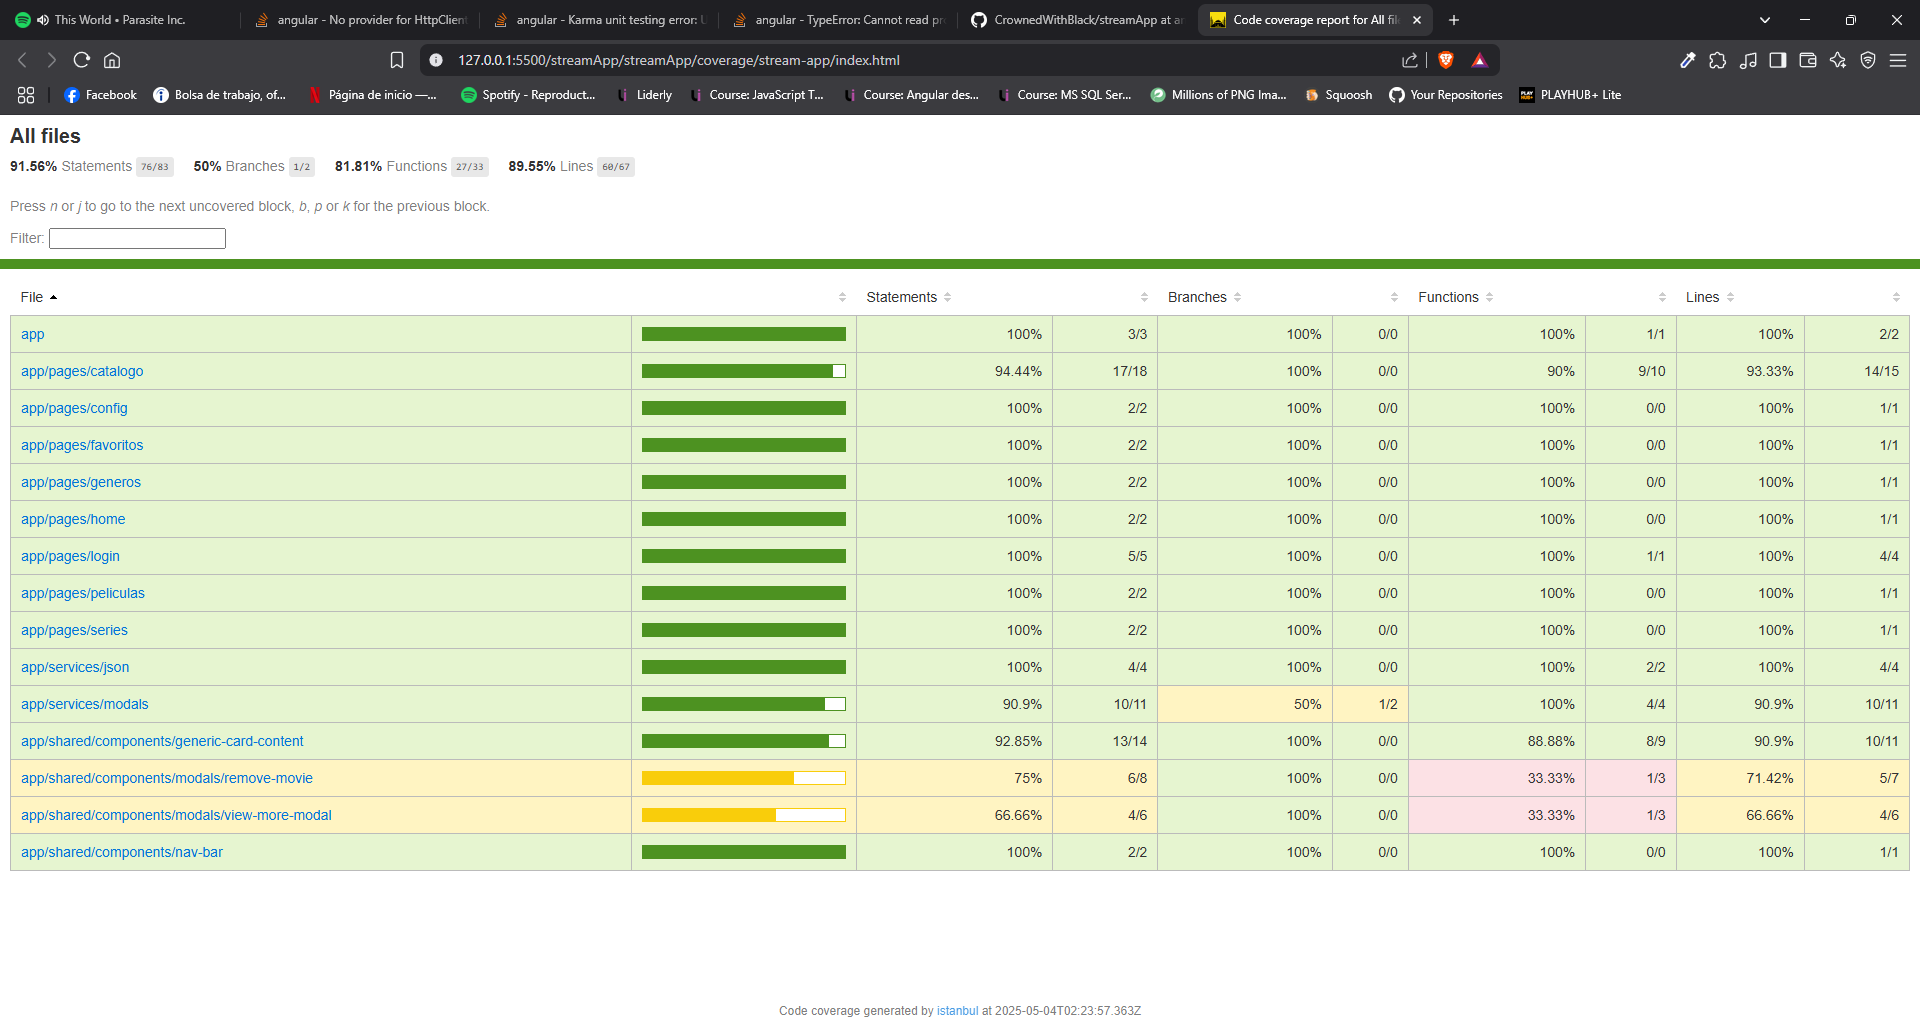
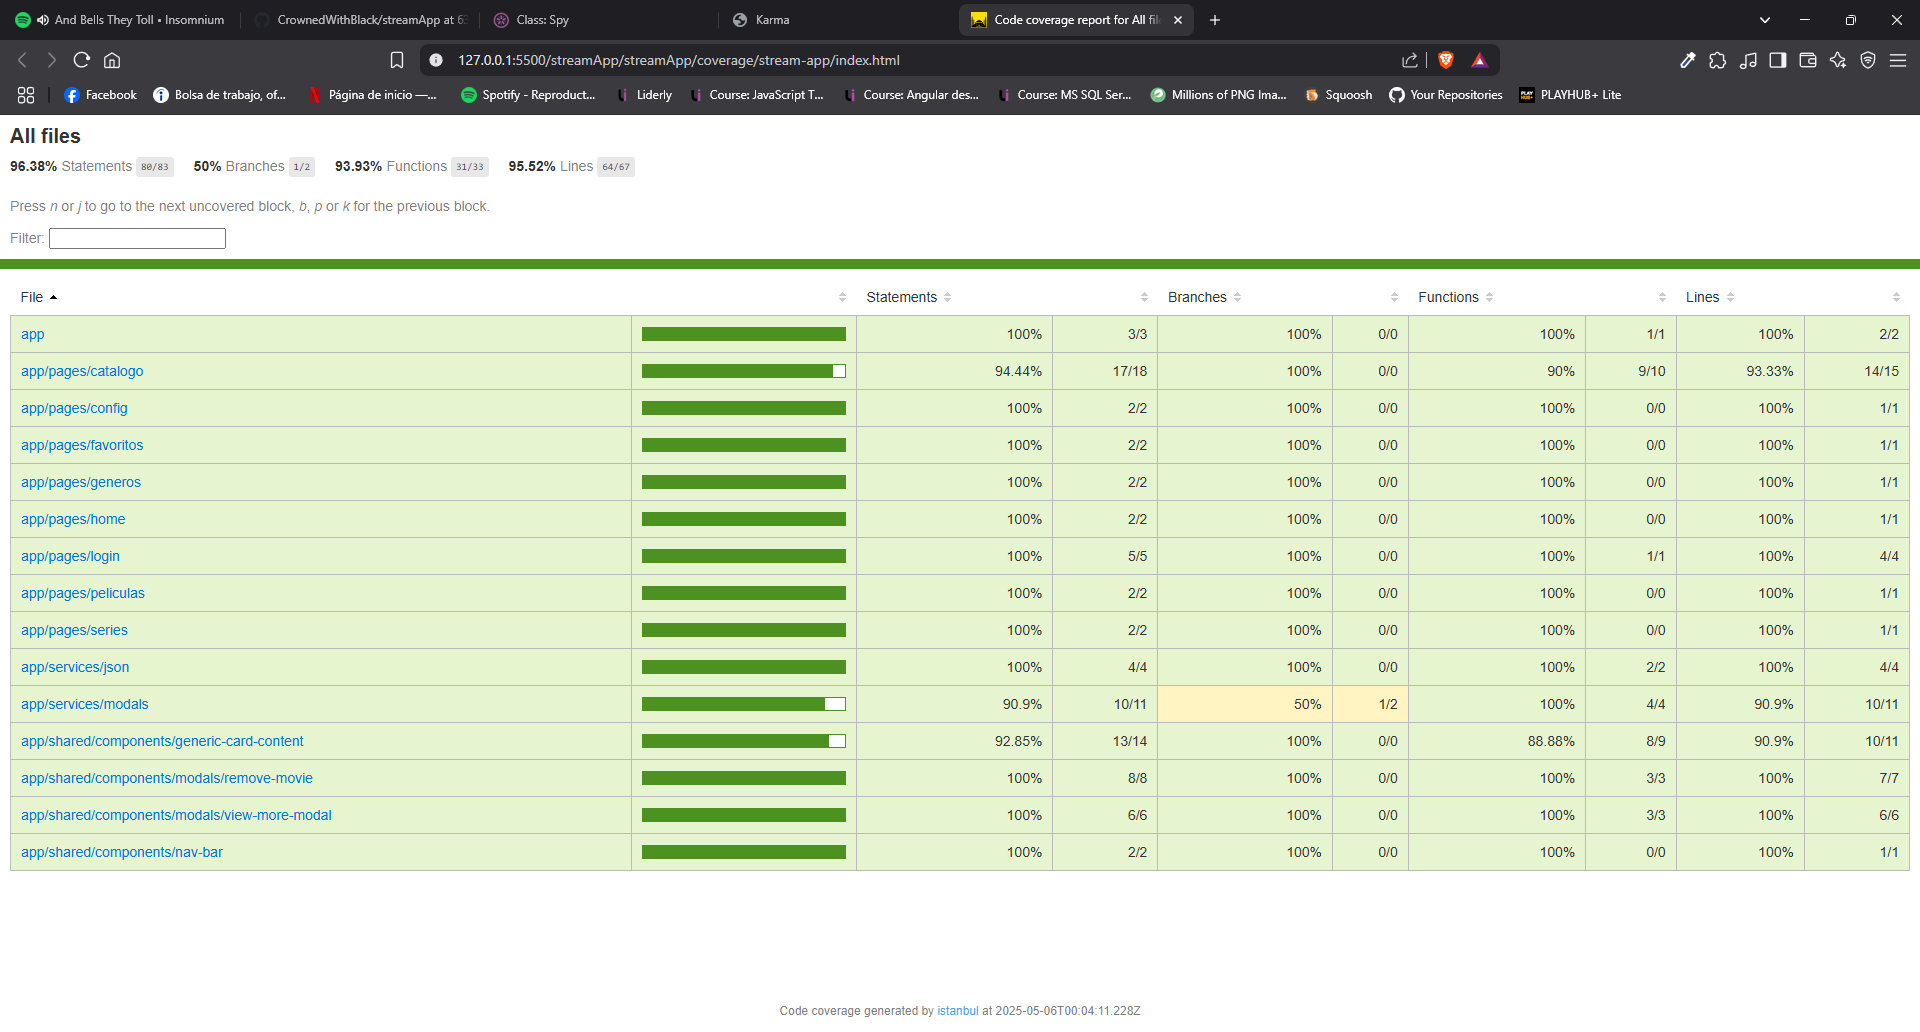
added some missing test, readme updated

diff --git a/src/app/shared/components/modals/remove-movie/remove-movie.component.spec.ts b/src/app/shared/components/modals/remove-movie/remove-movie.component.spec.ts
@@ -21,4 +21,17 @@ describe('RemoveMovieComponent', () => {
   it('should create', () => {
     expect(component).toBeTruthy();
   });
+
+  it('deberia cerrar el modal y manda el estado true #removeMovie', () => {
+    const dismissModalSpy = spyOn(component['removeMovieModal'], 'close');//creamos un espia en close()
+    component.removeMovie();
+    expect(dismissModalSpy).toHaveBeenCalledWith(true);//checamos si la función fue llamada y mandó un true
+  });
+
+
+  it('deberia cerrar el modal #closeModal', () => {
+    const dismissModalSpy = spyOn(component['removeMovieModal'], 'close');//creamos un espia en close()
+    component.closeModal();
+    expect(dismissModalSpy).toHaveBeenCalled();//checamos si la función fue llamada
+  });
 });

diff --git a/src/app/shared/components/modals/view-more-modal/view-more-modal.component.spec.ts b/src/app/shared/components/modals/view-more-modal/view-more-modal.component.spec.ts
@@ -22,4 +22,16 @@ describe('ViewMoreModalComponent', () => {
   it('should create', () => {
     expect(component).toBeTruthy();
   });
+
+  it('deberia mostar un alert #watchMovie', () => {
+    const alertSpy = spyOn(window, 'alert');//creamos un espia en el alert
+    component.watchMovie();
+    expect(window.alert).toHaveBeenCalled();//checamos si el alert fue llamado
+  });
+
+  it('deberia cerrar el modal #closeModal', () => {
+    const dismissModalSpy = spyOn(component['watchMovieModal'], 'dismiss');//creamos un espia de dismiss
+    component.closeModal();
+    expect(dismissModalSpy).toHaveBeenCalled();//comprobamos si la función fue llamada
+  });
 });

diff --git a/src/app/services/modals/modal.service.spec.ts b/src/app/services/modals/modal.service.spec.ts
@@ -66,8 +66,5 @@ describe('ModalService', () => {
   
     //checa si el callback fue llamado
     expect(callbackSpy).toHaveBeenCalled();
-
   });
-
-
 });

diff --git a/README.md b/README.md
@@ -60,7 +60,7 @@ En este sprint no toqué nada que mejorara o empeorara la aplicación ya que fue
 
 ## Retrospectiva
 ### ¿Qué hice bien?
-La reutilización de componentes quedó muy bien ya que el código se redujo en 247 lineas. También el code coverage quedó en muy buen porcentaje quedando en un **91.56%** para los statements y en un **89.55%** para las lineas. Me hubiera gustado alcanzar un 100% pero si está difícil :sweat_smile:.
+La reutilización de componentes quedó muy bien ya que el código se redujo en 247 lineas. También el code coverage quedó en muy buen porcentaje quedando en un **96.38%** para los statements y en un **95.52%** para las lineas. Me hubiera gustado alcanzar un 100% pero si está difícil :sweat_smile:.
 ### ¿Qué no salió bien?
 En general todo se me dificultó ya que nunca había usado angular, ahora si le sumamos aprender jasmine, que es el "framework del framework :dizzy_face:". Mi mayor dolor de cabeza siguen siendo los componentes de ngBootsrtrap, pero paso a paso ahí vamos. También hubo un statement que simplemente no pude cubrir el cual estaba dentro de una función con callback.
 ### ¿Qué puedo hacer diferente?
